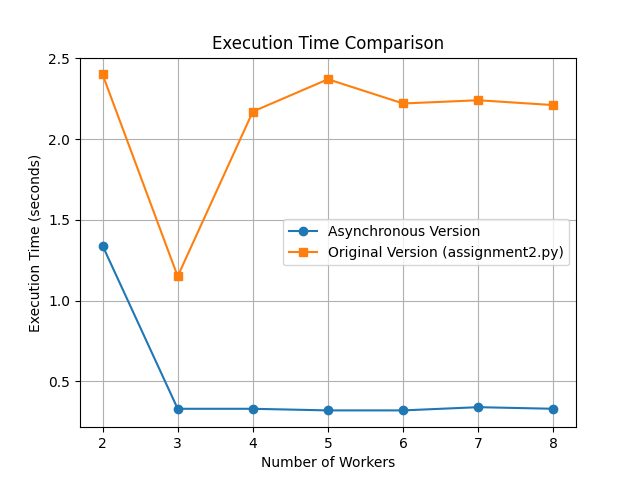
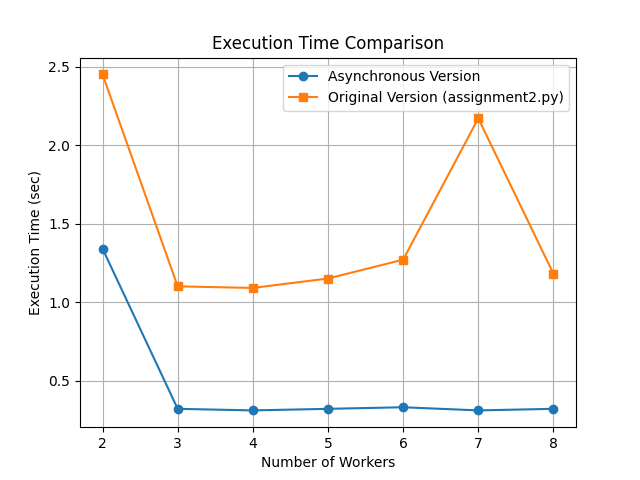
Add EXAM folder except for student_alcohol_intake.db

diff --git a/EXAM/alcolole_sql.py b/EXAM/alcolole_sql.py
@@ -1,0 +1,179 @@
+import pandas as pd
+from sqlalchemy import create_engine, text
+
+# Paths
+database_path= 'sqlite:///student_alcohol_intake.db'
+dataset_path= '/data/datasets/prog5/SQL_example.csv'
+
+# Function to create tables using direct SQL statements
+def create_tables(connection):
+    with connection.begin():
+        connection.execute(text("""
+            CREATE TABLE IF NOT EXISTS students (
+                student_id INTEGER PRIMARY KEY,
+                school TEXT,
+                sex TEXT,
+                age INTEGER,
+                address TEXT,
+                famsize TEXT,
+                Pstatus TEXT
+            )
+        """))
+        connection.execute(text("""
+            CREATE TABLE IF NOT EXISTS parents (
+                student_id INTEGER PRIMARY KEY,
+                Medu INTEGER,
+                Fedu INTEGER,
+                Mjob TEXT,
+                Fjob TEXT,
+                reason TEXT,
+                guardian TEXT,
+                FOREIGN KEY(student_id) REFERENCES students(student_id)
+            )
+        """))
+        connection.execute(text("""
+            CREATE TABLE IF NOT EXISTS academic_profile (
+                student_id INTEGER PRIMARY KEY,
+                traveltime INTEGER,
+                studytime INTEGER,
+                failures INTEGER,
+                G1 INTEGER,
+                G2 INTEGER,
+                G3 INTEGER,
+                FOREIGN KEY(student_id) REFERENCES students(student_id)
+            )
+        """))
+        connection.execute(text("""
+            CREATE TABLE IF NOT EXISTS lifestyle (
+                student_id INTEGER PRIMARY KEY,
+                higher BOOLEAN,
+                internet BOOLEAN,
+                romantic BOOLEAN,
+                famrel INTEGER,
+                freetime INTEGER,
+                goout INTEGER,
+                Dalc INTEGER,
+                Walc INTEGER,
+                health INTEGER,
+                absences INTEGER,
+                FOREIGN KEY(student_id) REFERENCES students(student_id)
+            )
+        """))
+    print("2. Tables (students, parents, academic_profile, lifestyle) created successfully.")
+
+# Function to insert data using direct SQL statements
+def insert_data(connection, data):
+    with connection.begin():
+        for idx, row in data.iterrows():
+            student_id = idx + 1
+            connection.execute(text("""
+                INSERT INTO students (student_id, school, sex, age, address, famsize, Pstatus)
+                VALUES (:student_id, :school, :sex, :age, :address, :famsize, :Pstatus)
+            """), {
+                'student_id': student_id,
+                'school': row['school'],
+                'sex': row['sex'],
+                'age': row['age'],
+                'address': row['address'],
+                'famsize': row['famsize'],
+                'Pstatus': row['Pstatus']
+            })
+            connection.execute(text("""
+                INSERT INTO parents (student_id, Medu, Fedu, Mjob, Fjob, reason, guardian)
+                VALUES (:student_id, :Medu, :Fedu, :Mjob, :Fjob, :reason, :guardian)
+            """), {
+                'student_id': student_id,
+                'Medu': row['Medu'],
+                'Fedu': row['Fedu'],
+                'Mjob': row['Mjob'],
+                'Fjob': row['Fjob'],
+                'reason': row['reason'],
+                'guardian': row['guardian']
+            })
+            connection.execute(text("""
+                INSERT INTO academic_profile (student_id, traveltime, studytime, failures, G1, G2, G3)
+                VALUES (:student_id, :traveltime, :studytime, :failures, :G1, :G2, :G3)
+            """), {
+                'student_id': student_id,
+                'traveltime': row['traveltime'],
+                'studytime': row['studytime'],
+                'failures': row['failures'],
+                'G1': row['G1'],
+                'G2': row['G2'],
+                'G3': row['G3']
+            })
+            connection.execute(text("""
+                INSERT INTO lifestyle (student_id, higher, internet, romantic, famrel, freetime, goout, Dalc, Walc, health, absences)
+                VALUES (:student_id, :higher, :internet, :romantic, :famrel, :freetime, :goout, :Dalc, :Walc, :health, :absences)
+            """), {
+                'student_id': student_id,
+                # Convert higher, internet, romantic column's type to BOOLEAN
+                'higher': row['higher'] == 'yes',
+                'internet': row['internet'] == 'yes',
+                'romantic': row['romantic'] == 'yes',
+                'famrel': row['famrel'],
+                'freetime': row['freetime'],
+                'goout': row['goout'],
+                'Dalc': row['Dalc'],
+                'Walc': row['Walc'],
+                'health': row['health'],
+                'absences': row['absences']
+            })
+    print("3. Data inserted successfully.")
+
+
+# Function to query max alcohol consumption
+def find_max_alcohol_consumption(connection):
+    result = connection.execute(text("""
+        SELECT MAX(Dalc) AS max_dalc, MAX(Walc) AS max_walc FROM lifestyle
+    """)).fetchone()
+    max_dalc = result[0]
+    max_walc = result[1]
+    if max_dalc > max_walc:
+        print(f"4. The maximum alcohol consumption is during the week with a value of {max_dalc}.")
+    else:
+        print(f"4. The maximum alcohol consumption is during the weekend with a value of {max_walc}.")
+
+
+# Function to remove privacy-sensitive columns
+def remove_sensitive_data(connection):
+    """Remove the 'school' and 'address' columns from the 'students' table."""
+    connection.execute(text("ALTER TABLE students DROP COLUMN school"))
+    connection.execute(text("ALTER TABLE students DROP COLUMN address"))
+    print("5. Privacy-sensitive columns 'school' and 'address' removed.")
+
+# Function to drop tables 
+def drop_all_tables(connection):
+    """Drop each table in the database by name if it exists."""
+    with connection.begin():
+        connection.execute(text("DROP TABLE IF EXISTS lifestyle"))
+        connection.execute(text("DROP TABLE IF EXISTS academic_profile"))
+        connection.execute(text("DROP TABLE IF EXISTS parents"))
+        connection.execute(text("DROP TABLE IF EXISTS students"))
+    print("All tables dropped successfully.")
+
+
+def main():
+    # Connect to the SQLite database
+    engine = create_engine(database_path)
+    connection = engine.connect()
+    print("Database connection established.")
+
+    data = pd.read_csv(dataset_path)
+    print("1. Data loaded successfully.")
+
+    # To avoid any problem to run again
+    drop_all_tables(connection)
+
+    create_tables(connection)
+    insert_data(connection, data)
+    find_max_alcohol_consumption(connection)
+    remove_sensitive_data(connection)
+
+
+    # Close connection
+    connection.close()
+    print("Database connection closed.")
+
+if __name__ == "__main__":
+    main()

diff --git a/EXAM/dbnsfp_pyspark.py b/EXAM/dbnsfp_pyspark.py
@@ -1,0 +1,96 @@
+import sys
+from pyspark.sql import SparkSession, DataFrame
+from pyspark.sql.functions import col, avg, min, max, when, concat, lit, count
+from pyspark.sql.types import FloatType
+
+# Setup Spark
+sys.path.append('/opt/spark/python')
+sys.path.append('/opt/spark/python/lib/py4j-0.10.9.7-src.zip')
+
+spark = SparkSession.builder.appName("dbNSFP_exam") \
+    .config("spark.ui.enabled", "false") \
+    .config("spark.executor.memory", "8g") \
+    .config("spark.driver.memory", "8g") \
+    .master("local[8]").getOrCreate()
+
+spark.sparkContext.setLogLevel("ERROR")
+
+# Load data
+data_path = "/data/datasets/dbNSFP/snpEff/data/dbNSFP4.9a.txt.gz.SMALL"
+df = spark.read.csv(data_path, header=True, sep="\t")
+
+# Define the function to clean data
+def clean_column(df: DataFrame, column_name: str) -> DataFrame:
+    """
+    Replaces '.', ';', or '.;' with None in the specified column and casts it to FloatType.
+    
+    Parameters:
+    - df (DataFrame): The input DataFrame
+    - column_name (str): The column name to be cleaned and cast
+    
+    Returns:
+    - DataFrame: The DataFrame with the specified column cleaned and cast to FloatType
+    """
+    return df.withColumn(
+        column_name,
+        when(
+            col(column_name).rlike(r"^\.;?$"),
+            None
+        ).otherwise(col(column_name).cast(FloatType()))
+    )
+
+# Question 1: Calculate average, minimum, and maximum SIFT_score
+def question1(df):
+    # Clean the column SIFT_score
+    df_cleaned = clean_column(df, 'SIFT_score')
+    
+    # Calculate statistics
+    result = df_cleaned.select(
+        avg(col("SIFT_score")).alias("mean_SIFT_score"),
+        min(col("SIFT_score")).alias("min_SIFT_score"),
+        max(col("SIFT_score")).alias("max_SIFT_score")
+    )
+    
+    # Display result (for debugging purposes)
+    result.show()
+
+    # Answer: mean, min, and max of SIFT_score
+    return result.collect()
+
+# Question 2: Merge hg19_chr and hg19_pos(1-based) into hg19_chr_pos and remove the originals
+def question2(df):
+    # Create the new column by concatenating hg19_chr and hg19_pos(1-based)
+    df = df.withColumn("hg19_chr_pos", concat(col("hg19_chr"), lit("_"), col("hg19_pos(1-based)")))
+    
+    # Drop the original hg19_chr and hg19_pos(1-based) columns
+    df = df.drop("hg19_chr", "hg19_pos(1-based)")
+
+    # Return the modified DataFrame
+    return df
+
+# Question 3: Find the most common codon position
+def question3(df):
+    """
+    Determines the codon position ('codonpos') with the most predicted effects across all SNPs in the file.
+    Args:
+        df (DataFrame): The input DataFrame.
+
+    Returns:
+        tuple: The most common codon position and its count.
+    """
+    # Count the occurrences of each "codonpos" value
+    codonpos_counts = df.groupBy("codonpos").agg(count("*").alias("count")).orderBy(col("count").desc())
+
+    # Fetch the codon position with the highest count
+    most_common_codonpos = codonpos_counts.first()
+
+    return most_common_codonpos
+
+# Run the questions
+question1(df)
+df = question2(df)
+df.select("hg19_chr_pos").show()
+print("Most common codon position:", question3(df))
+
+# Stop Spark session
+spark.stop()

diff --git a/EXAM/openmpi.py b/EXAM/openmpi.py
@@ -7,11 +7,11 @@ upper_bound = 1.0
 num_steps = 1000000
 step_size = (upper_bound - lower_bound) / num_steps
 
-# Define the function to integrate (example: f(x) = x^2)
+# Define the function to integrate
 def function_to_integrate(x):
     return x**2
 
-# Compute the local integral for each process
+# Compute the local integral
 def compute_local_integral(start, end, step_size):
     integral = 0.0
     x = start
@@ -25,15 +25,14 @@ comm = MPI.COMM_WORLD
 rank = comm.Get_rank()
 size = comm.Get_size()
 
-# Define the bounds each rank should handle
-work_per_rank = (upper_bound - lower_bound) / (size - 1)  # Exclude rank 0
+# Define the bounds each rank should handle exclude 0
+work_per_rank = (upper_bound - lower_bound) / (size - 1)
 
 # Broadcast step size to all processes
 step_size = comm.bcast(step_size, root=0)
 
 # Asynchronous gathering of results at rank 0
 if rank == 0:
-    # Rank 0 initializes asynchronous receiving
     requests = []
     results = np.zeros(size - 1)
     for i in range(1, size):
@@ -42,7 +41,7 @@ if rank == 0:
     
     # Wait for each result and sum up
     for i in range(size - 1):
-        results[i] = requests[i].wait()  # Wait for each irecv request to complete
+        results[i] = requests[i].wait()
     
     # Calculate the final integral result
     final_result = np.sum(results)

diff --git a/EXAM/plot_mpi.py b/EXAM/plot_mpi.py
@@ -22,8 +22,9 @@ with open("original_times.txt") as f:
 plt.plot(worker_counts, async_times, label='Asynchronous Version', marker='o')
 plt.plot(worker_counts, original_times, label='Original Version (assignment2.py)', marker='s')
 plt.xlabel("Number of Workers")
-plt.ylabel("Execution Time (seconds)")
+plt.ylabel("Execution Time (sec)")
 plt.title("Execution Time Comparison")
+
 plt.legend()
 plt.grid(True)
 
